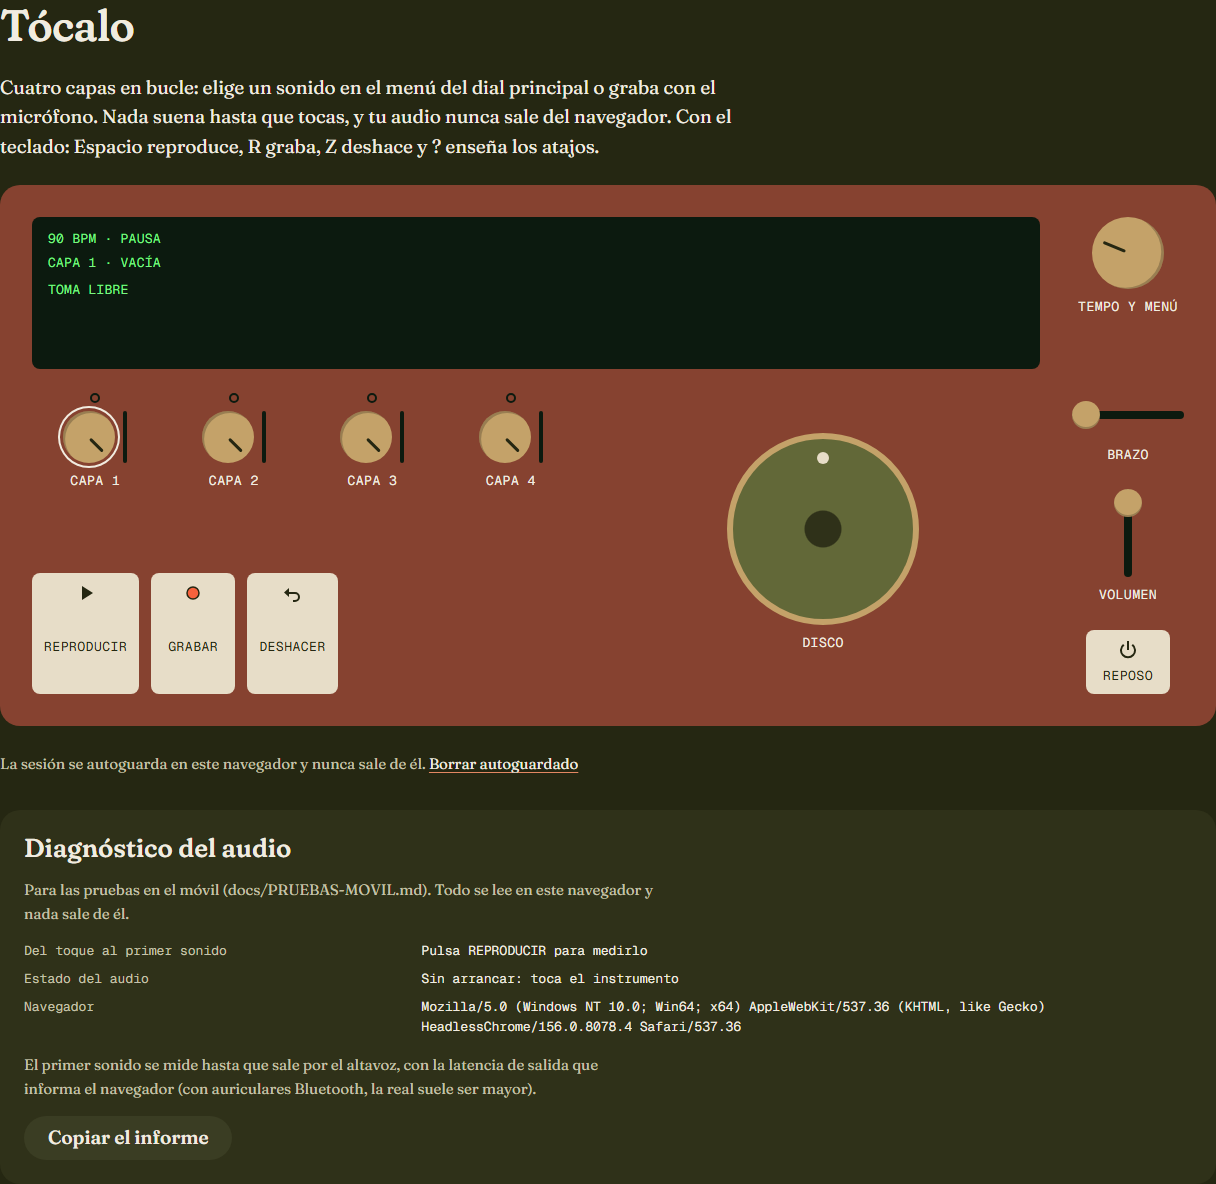
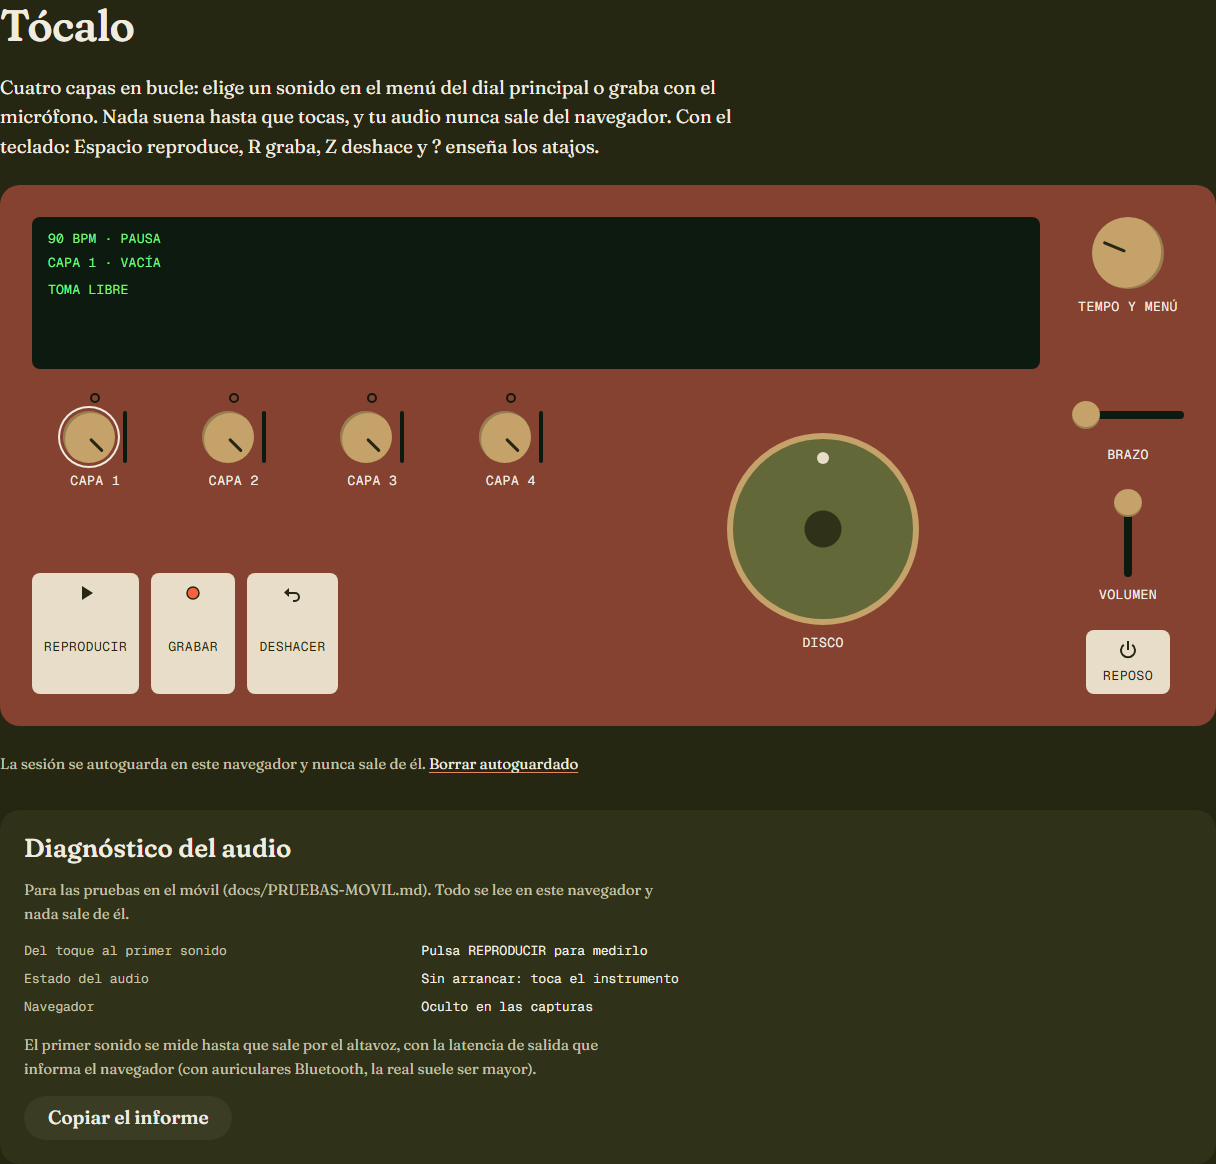
fix: con ?captura=1, el panel no enseña el agente de usuario
Revisión de la fase 4, #12: cambiaba con cada versión de Playwright y del sistema.
Capturas del panel rehechas.

diff --git a/src/app/features/diagnostics/diagnostics-panel.ts b/src/app/features/diagnostics/diagnostics-panel.ts
@@ -1,5 +1,6 @@
 import { afterNextRender, Component, computed, DestroyRef, inject, signal } from '@angular/core';
 import type { EngineDiagnostics } from '../../audio/engine';
+import { isCaptureMode } from '../../core/capture-mode';
 import { SessionStore } from '../../state';
 import { DIAGNOSTICS_CONTENT } from './diagnostics.content';
 import { diagnosticsRows, reportText } from './diagnostics-report';
@@ -116,7 +117,10 @@ export class DiagnosticsPanel {
     this.#store.enableDiagnostics();
     const destroyRef = inject(DestroyRef);
     afterNextRender(() => {
-      this.#userAgent.set(navigator.userAgent);
+      // En las capturas (`?captura=1`), un texto fijo: el agente de usuario cambia con cada versión.
+      this.#userAgent.set(
+        isCaptureMode(location.search) ? this.text.values.browserInCapture : navigator.userAgent,
+      );
       const refresh = () => this.#snapshot.set(this.#store.diagnostics());
       refresh();
       const timer = setInterval(refresh, REFRESH_MS);

diff --git a/src/app/features/diagnostics/diagnostics.content.ts b/src/app/features/diagnostics/diagnostics.content.ts
@@ -31,6 +31,8 @@ export const DIAGNOSTICS_CONTENT = {
     firstSoundEmpty: 'Pulsa REPRODUCIR para medirlo',
     cold: 'en frío',
     silent: 'no ha sonado en 5 s',
+    /** Con `?captura=1`, en lugar del agente de usuario, que cambia con cada versión. */
+    browserInCapture: 'Oculto en las capturas',
     latencyModes: { auto: 'automática', calibrated: 'calibrada', manual: 'manual' },
   },
 
